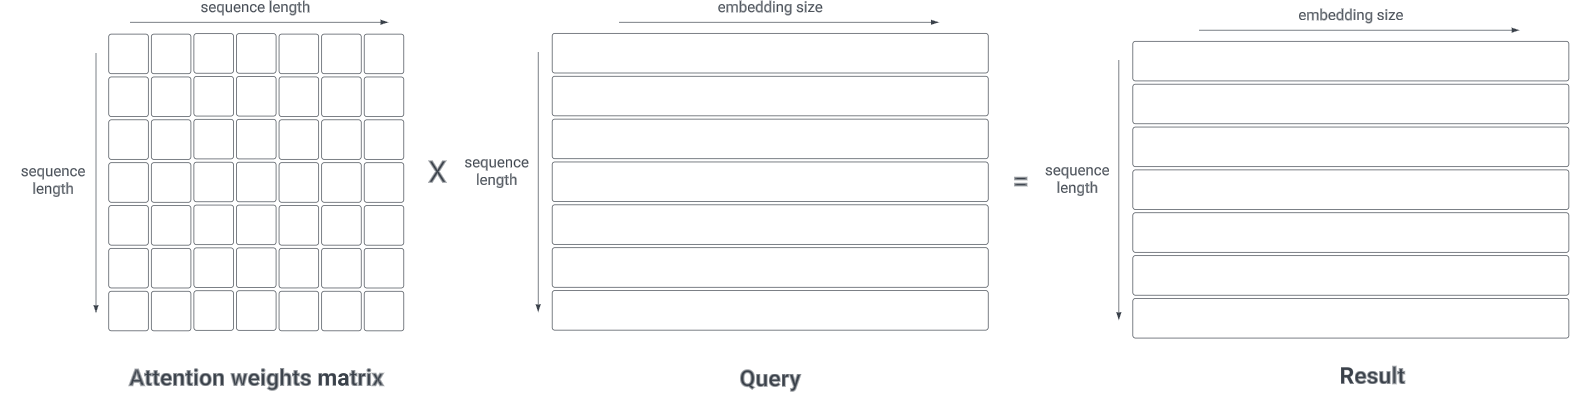
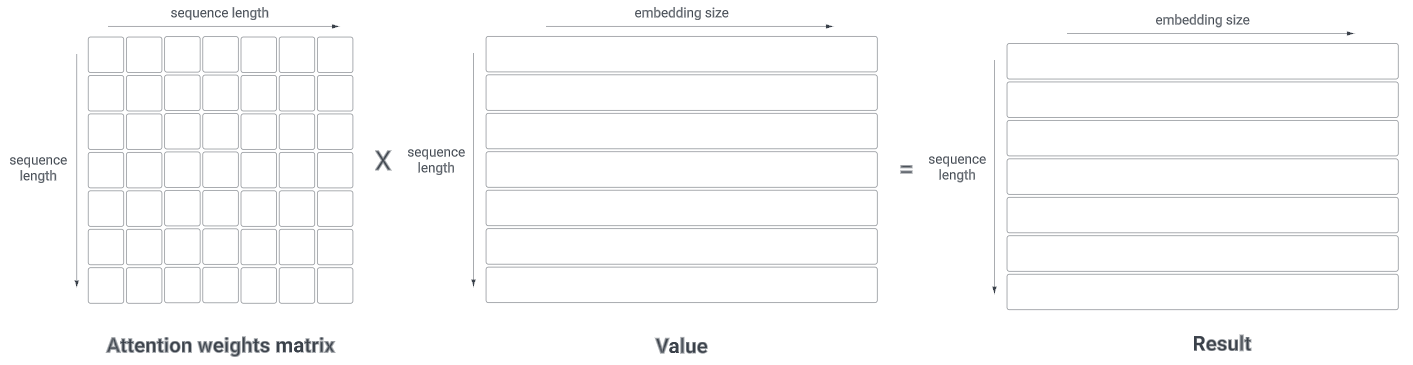
Add transformer post

diff --git a/_posts/2022-05-21-transformer-cheatsheet.md b/_posts/2022-05-21-transformer-cheatsheet.md
@@ -1,0 +1,72 @@
+---
+title: Transformers Cheat Sheet
+categories:
+  - Posts
+classes:
+  - wider-content
+tags:
+  - Deep Learning
+excerpt: Key concepts of transformers architecture
+---
+This post contains a key concept of how and why transformers architecture works. It is intended to be a quick reference so it assumes some fundamental knowledge of transformers. The original paper can be read [here](https://proceedings.neurips.cc/paper_files/paper/2017/file/3f5ee243547dee91fbd053c1c4a845aa-Paper.pdf).
+
+![architecture](/assets/images/transformers/architecture.png){: .align-center}
+
+![architecture](/assets/images/transformers/op.png){: .align-center}
+
+## Intuitive Objective
+The idea is to find **global dynamic weights** to represent how **each** token in the output pays attention to **each** token in the input. Therefore, each token in the output will have different attention weights to one another.
+
+## Attention Mechanism
+The attention mechanism consists of 3 main components, which are **Query**, **Key**, and **Value**. To quote from [here](https://stats.stackexchange.com/questions/421935/what-exactly-are-keys-queries-and-values-in-attention-mechanisms):
+> The key/value/query concept is analogous to retrieval systems. For example, when you search for videos on Youtube, the search engine will map your query (text in the search bar) against a set of keys (video title, description, etc.) associated with candidate videos in their database, then present you the best matched videos (values).
+
+![architecture](/assets/images/transformers/att1.png){: .align-center}
+
+Another intuitive explanation is that we want to extract relevant information from the **Value** based on a certain **Query**. Each **Value** has a corresponding **Key**. The **Query** is paired with the **Key** of the values to calculate the relevance of each **Value** with respect to the **Query**.
+
+### Scaled Dot-Product Attention
+Notice the formula of calculting the attention mechanism as follows:
+
+$$ Attention(Q, K, V) = softmax(\frac{QK^T}{\sqrt{d_k}})V $$
+
+All $$Q$$, $$K$$, and $$V$$ are matrices. Each row in $$Q$$ and $$K$$ has dimension of $$d_k$$, while each row in $$V$$ has dimension of $$d_v$$ ($$d_k$$ does not necessarily have to be different with $$d_v$$). The softmax part of the equation is the global dynamic weight matrix that is mentioned earlier.
+
+![architecture](/assets/images/transformers/att2.png){: .align-center}
+
+Notice that token in the $$Q$$ sequence is multiplied with **every** token in the $$K$$ sequence. By multiplying $$Q$$ and $$K^T$$, we get a square matrix scaled by $$\sqrt{d_k}$$. Hence, we need divide it to by $$\sqrt{d_k}$$ to normalize it back.
+
+To illustrate why the dot products get large, assume that the components of vector $$q$$ and $$k$$ are **independent** random variables with mean of 0 and variance of 1. Their dot product, $$q · k = \sum_{i=1}^{d_k} q_i k_i $$. Notice that:
+
+$$\begin{eqnarray} 
+\mathrm{E}[q.k] &=& \mathrm{E}[q_1k_1 + ... + q_{d_k}k_{d_k}] \\
+                &=& \mathrm{E}[0] \\
+                &=& 0 \\
+\end{eqnarray}$$
+
+$$\begin{eqnarray} 
+\mathrm{Var}[q.k] &=& \mathrm{Var}[q_1k_1] + ... + \mathrm{Var}[q_{d_k}k_{d_k}] \\
+                &=& d_k \\
+\end{eqnarray}$$
+
+After that we apply softmax function in the column dimension. The idea is so that every single row sums up to 1.
+
+### Multi-Head Attention
+Finally, we multiply the result from the scaled dot-product with the $$V$$ matrix. Notice that each element in a row controls how much attention for each token in $$V$$.
+
+![architecture](/assets/images/transformers/att3.png){: .align-center}
+
+Ideally, we want to compute the attention mechanism using the whole matrices. However, it is not always computationally feasible when the matrices are large. Instead, we can divide $$d_k$$ into several heads and compute the attention mechanism for each of them, then concantenate them back together. This is called **multi-head attention**.
+
+### Self-Attention
+This term refers to the encoder part of the transformers. In this case, the $$Q$$, $$K$$, and $$V$$ matrices are all the same. The intuition is that we want to extract relevant information from the input sequence itself.
+
+## Positional Encoding
+Transformer can process all the input sequence in parallel, unlike RNN. Consequently, it does not have any information about the order of the sequence. To solve this problem, we add positional encoding to inject the positional infomation. The formula is as follows:
+
+$$\begin{eqnarray}
+PE_{(pos, 2i)} = sin(\frac{pos}{10000^{2i/d_{model}}}) \\
+PE_{(pos, 2i+1)} = cos(\frac{pos}{10000^{2i/d_{model}}}) \\
+\end{eqnarray}$$
+
+where $$d_{model}$$ can be $$d_k$$ or $$d_v$$.
